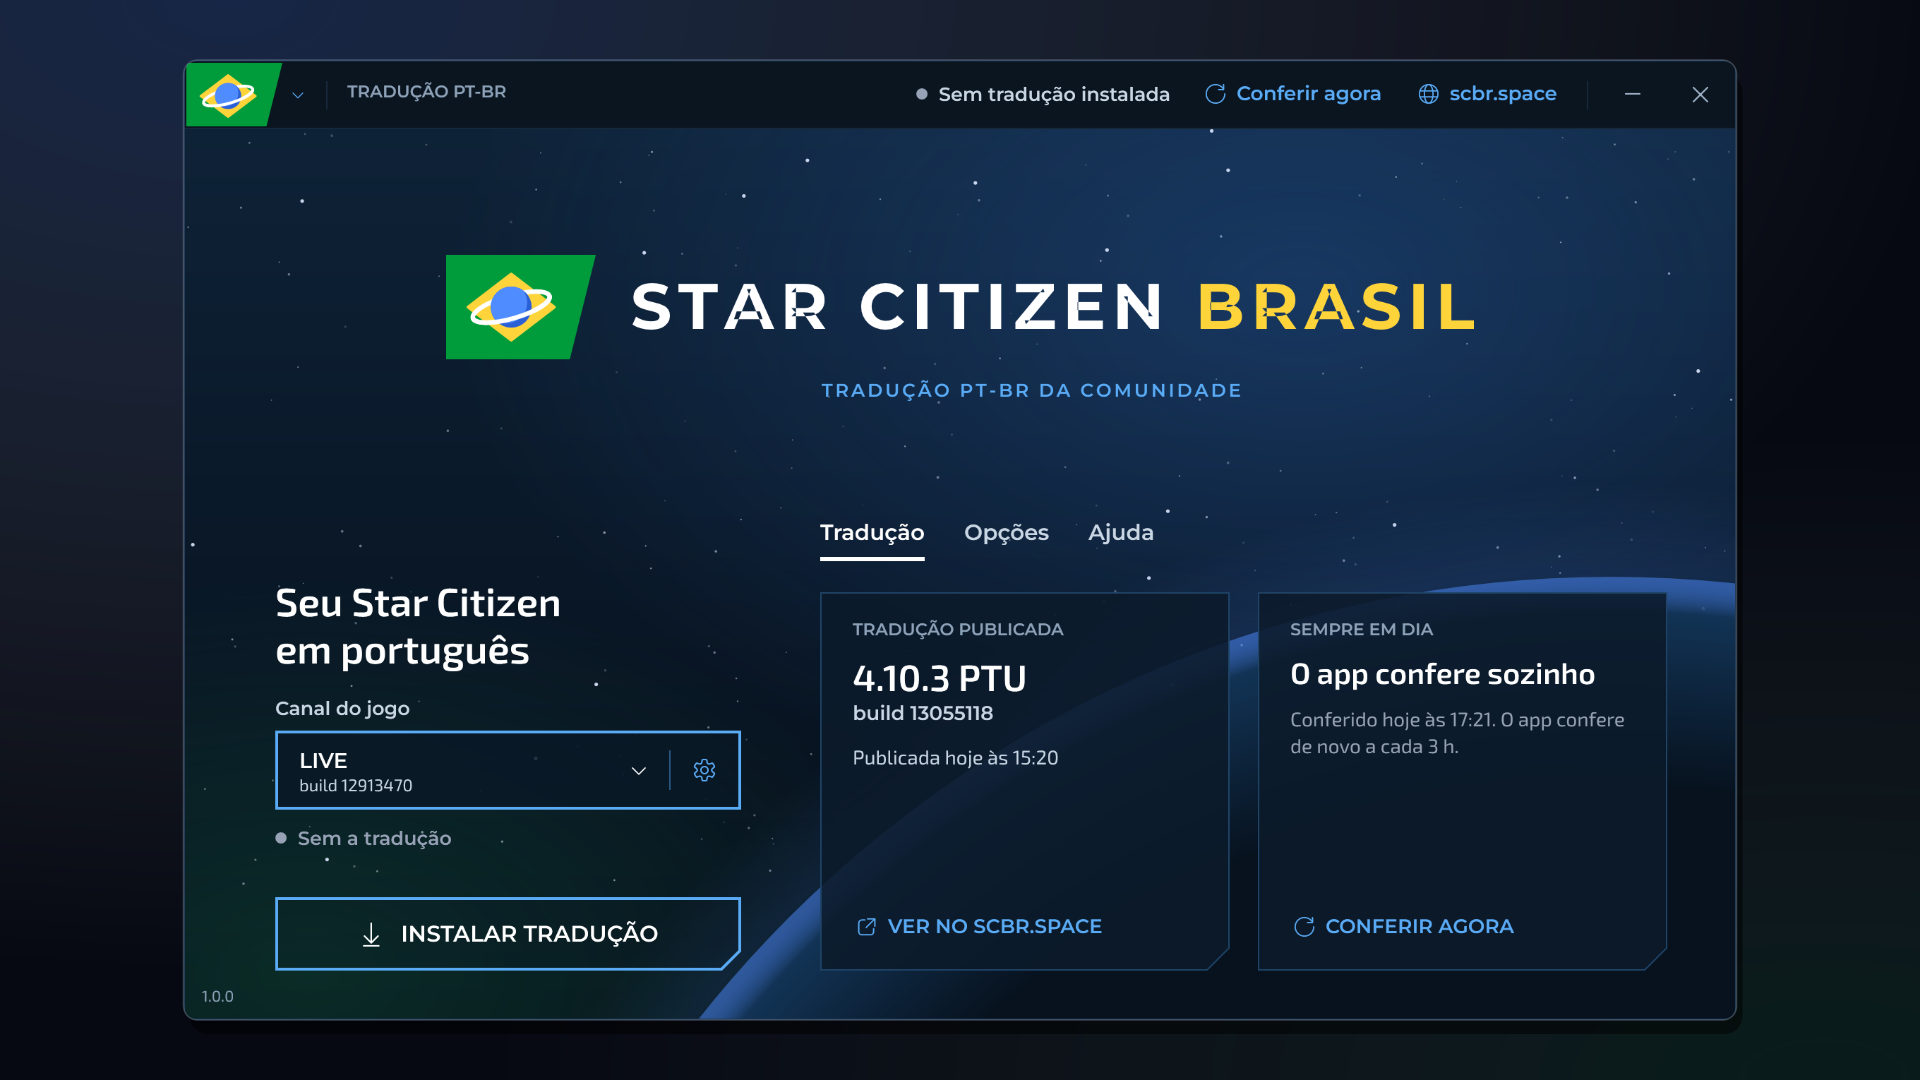
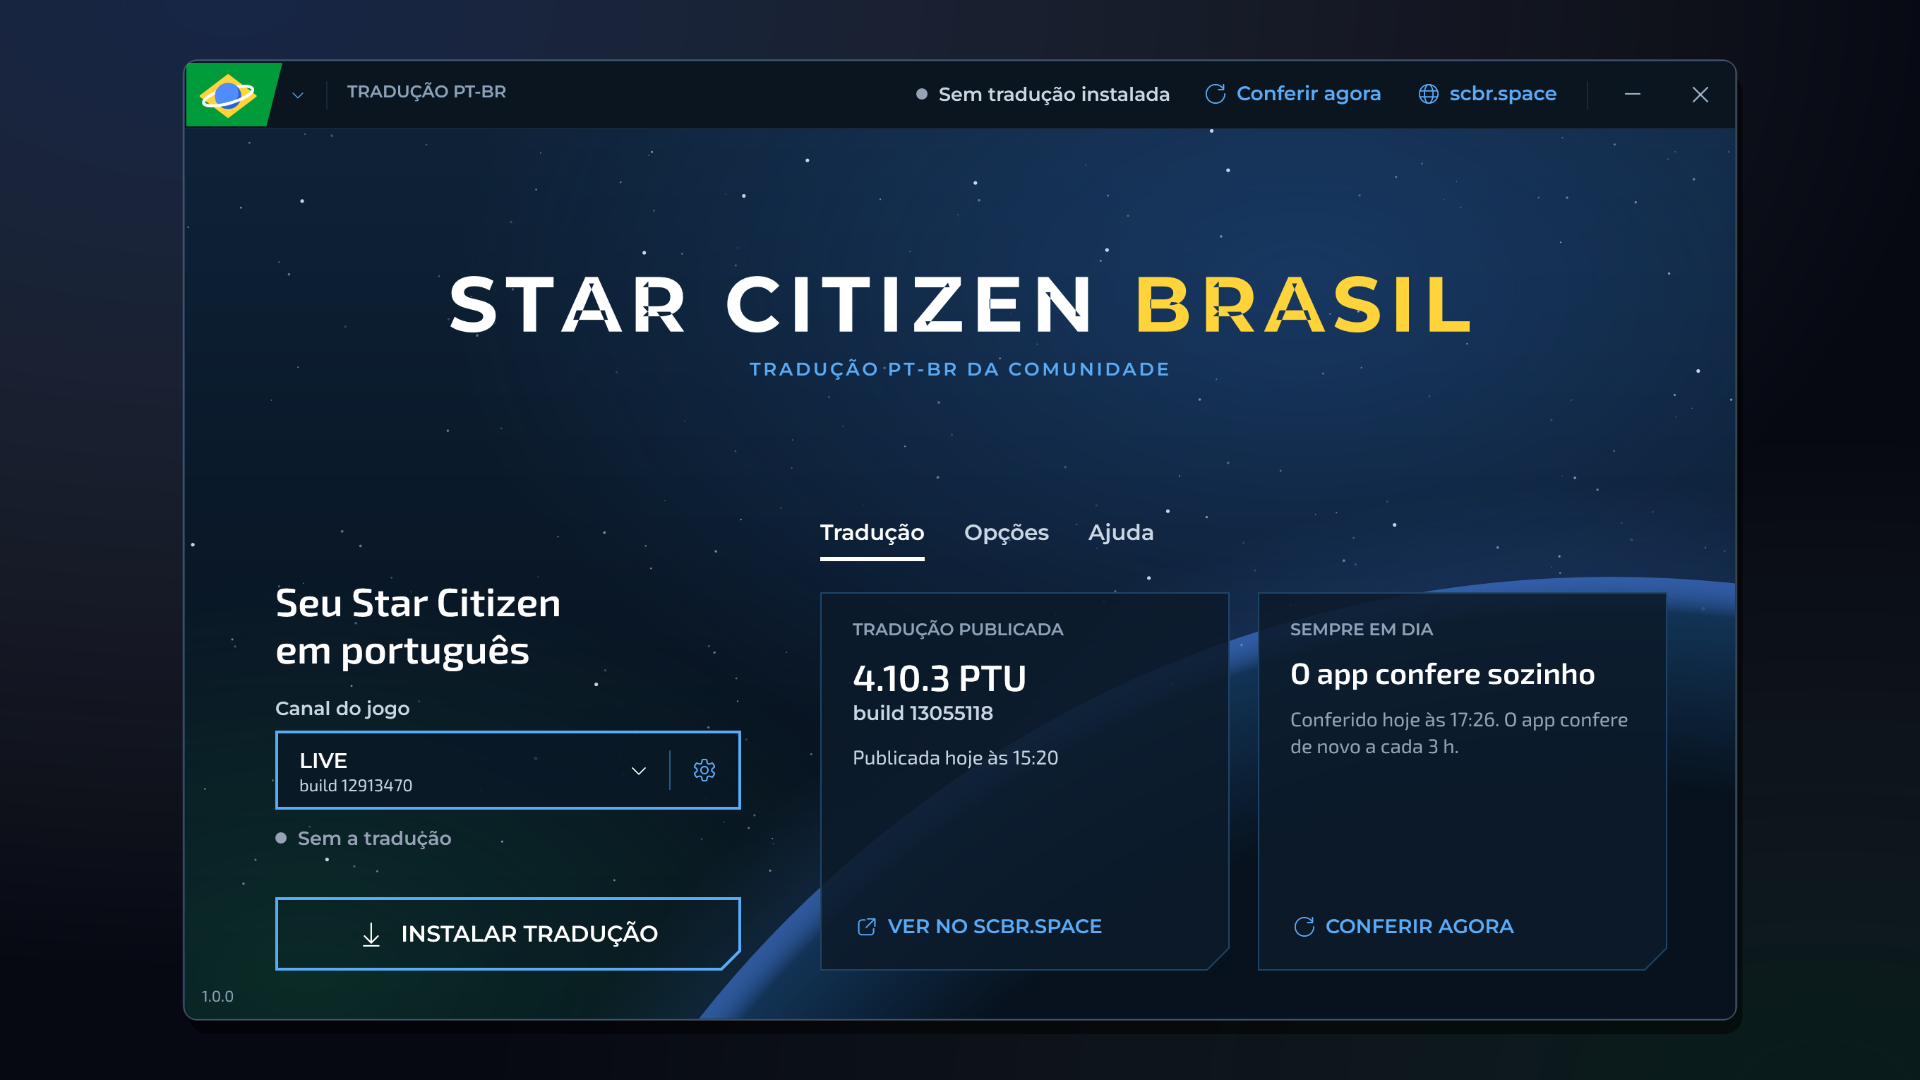
Só o nome no meio; a bandeira fica na barra do topo
Pedido do Eduardo: a bandeira (a marca verde) não precisa estar no meio, só no topo.
No meio fica o nome "STAR CITIZEN BRASIL", maior, com "Tradução PT-BR da comunidade"
embaixo. Os ícones do Windows continuam com o símbolo de sempre. Imagens do README e
da loja refeitas.

Changed region(s): [[0.2188, 0.2139, 0.7812, 0.3361], [0.4062, 0.3361, 0.6562, 0.3667], [0.7812, 0.6417, 0.8438, 0.6722]]

diff --git a/src/TraducaoScbr/JanelaPrincipal.xaml b/src/TraducaoScbr/JanelaPrincipal.xaml
@@ -109,16 +109,13 @@
             <RowDefinition Height="Auto" />
           </Grid.RowDefinitions>
 
-          <!-- O logo do site no meio, no lugar do logo do jogo: a marca do cabeçalho e o nome, como no scbr.space. -->
+          <!-- O nome do site no meio, no lugar do logo do jogo. A bandeira (a marca) fica só na barra do topo. -->
           <StackPanel VerticalAlignment="Center" HorizontalAlignment="Center" Margin="0,6,0,0"
                       AutomationProperties.Name="Star Citizen Brasil: tradução PT-BR da comunidade">
-            <StackPanel Orientation="Horizontal" HorizontalAlignment="Center">
-              <Image Source="{StaticResource MarcaCabecalho}" Height="74" Stretch="Uniform" VerticalAlignment="Center" />
-              <Image Source="{StaticResource NomeDoSite}" Height="33" Stretch="Uniform" Margin="26,0,0,0" VerticalAlignment="Center" />
-            </StackPanel>
+            <Image Source="{StaticResource NomeDoSite}" Height="40" Stretch="Uniform" HorizontalAlignment="Center" />
             <TextBlock Text="T&#x2009;R&#x2009;A&#x2009;D&#x2009;U&#x2009;Ç&#x2009;Ã&#x2009;O&#x2009; &#x2009;P&#x2009;T&#x2009;-&#x2009;B&#x2009;R&#x2009; &#x2009;D&#x2009;A&#x2009; &#x2009;C&#x2009;O&#x2009;M&#x2009;U&#x2009;N&#x2009;I&#x2009;D&#x2009;A&#x2009;D&#x2009;E"
                        FontFamily="{StaticResource FonteUi}" FontSize="13" Foreground="{StaticResource Acento}"
-                       HorizontalAlignment="Center" Margin="100,14,0,0" />
+                       HorizontalAlignment="Center" Margin="0,18,0,0" />
           </StackPanel>
 
           <Grid Grid.Row="1" Margin="64,0,48,34">
